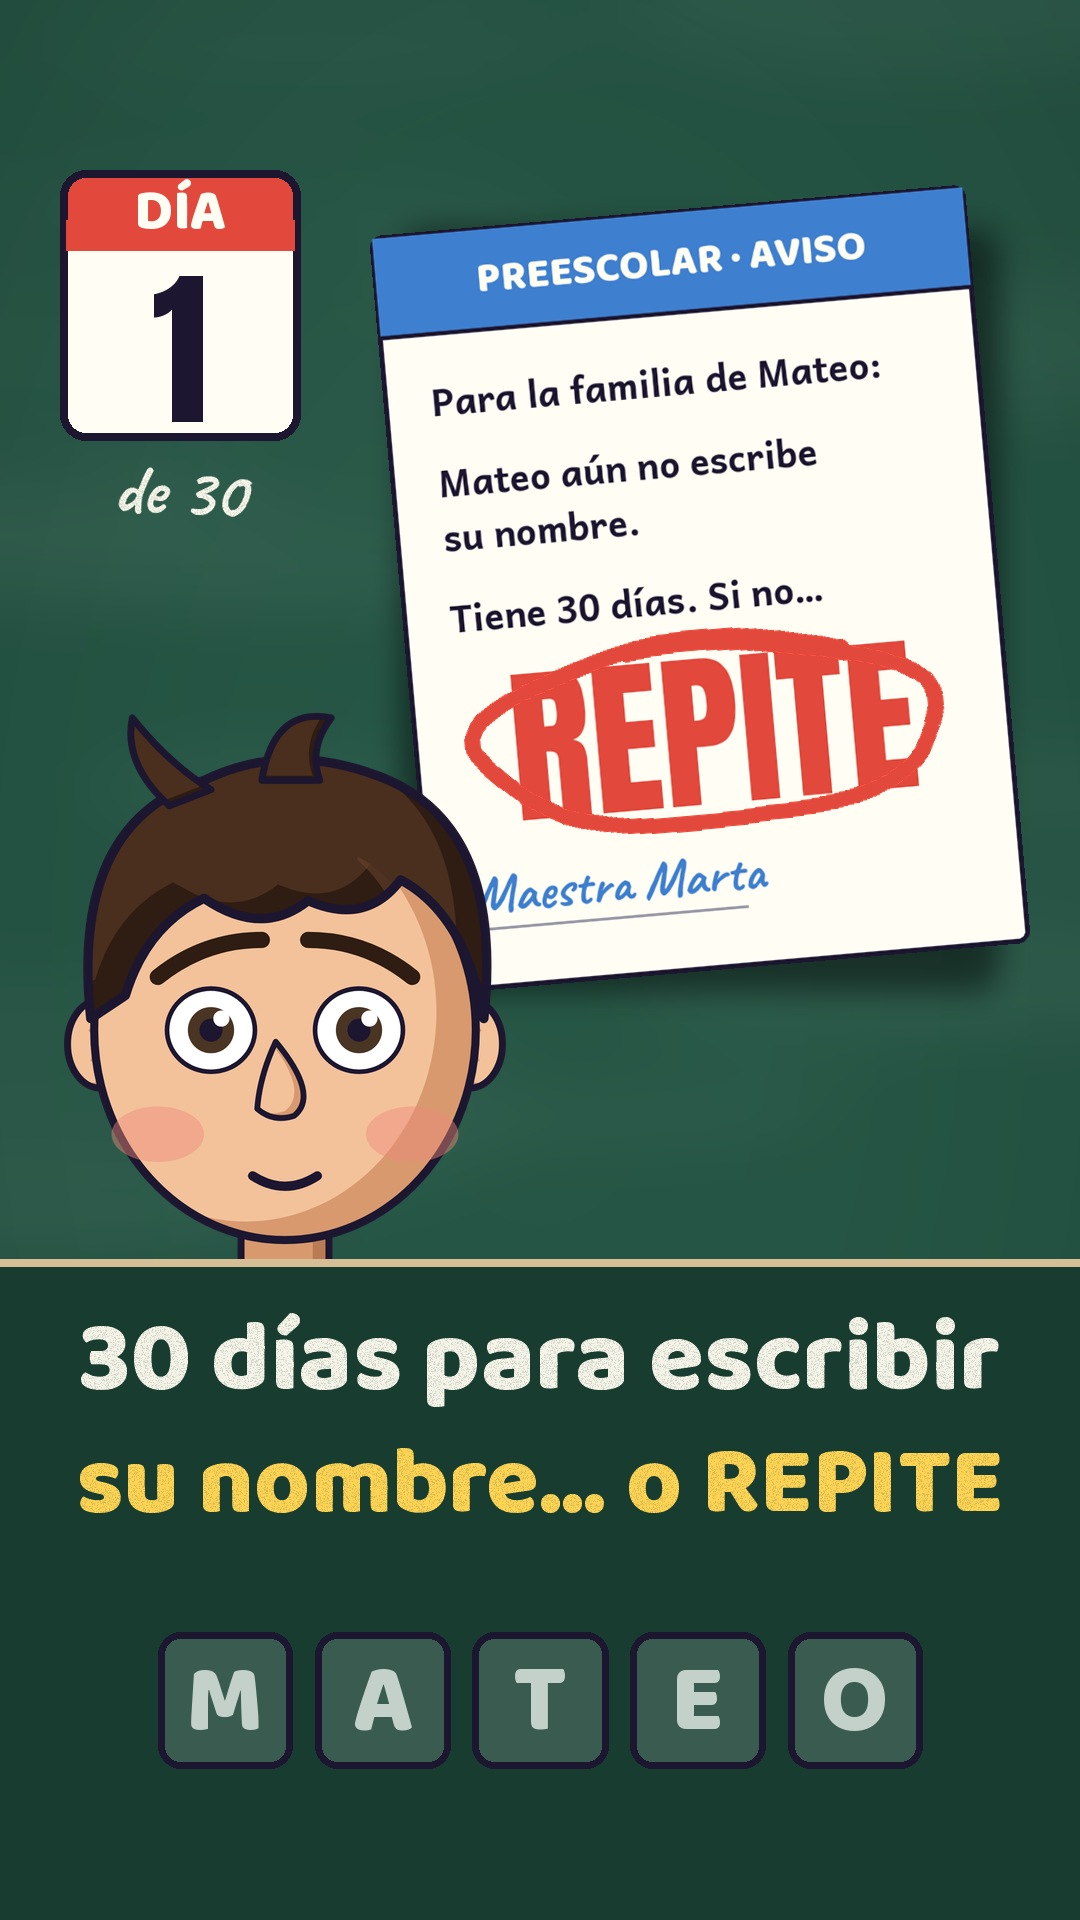
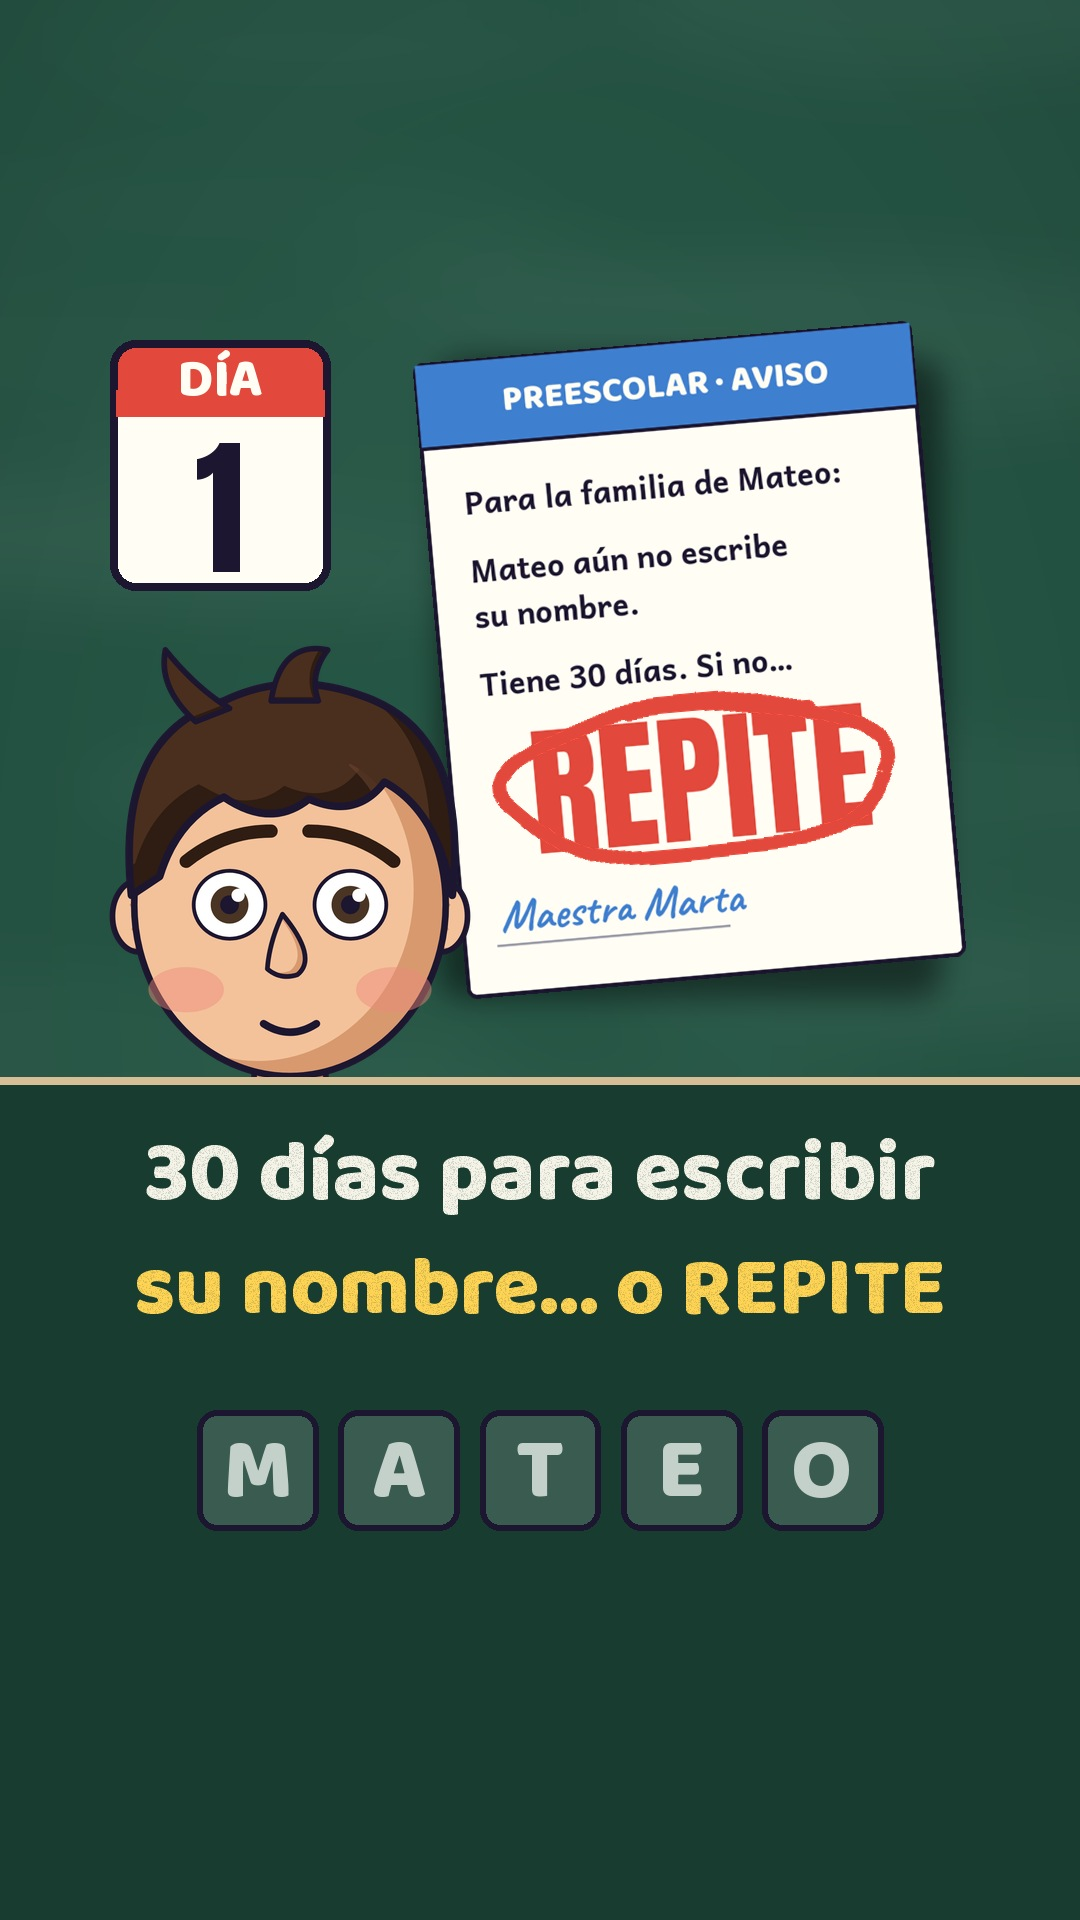
Mateo 30 días · Día 1: portada centrada en la zona 3:4 de TikTok
Claude-Session: https://claude.ai/code/session_01NdJoArMrGbMDWGBL12rqNM

diff --git a/mateo30/portada_d1.py b/mateo30/portada_d1.py
@@ -1,28 +1,23 @@
 """Portada del Día 1 (diseño nuevo de la temporada): pizarra verde, hoja de calendario DÍA N, cara de Mateo con emoción,
-UN objeto enorme con el error en círculo rojo, título de 2 líneas en tiza (palabra clave en amarillo) e imanes M-A-T-E-O."""
+UN objeto enorme con el error en círculo rojo, título de 2 líneas en tiza (palabra clave en amarillo) e imanes M-A-T-E-O.
+Todo dentro de la zona central 3:4 (x 90-990, y 300-1620): es lo que TikTok deja ver en la cuadrícula del perfil."""
 import os
-import render_d1 as V
 from render_d1 import *
 def main():
     c = pizarra(); d = ImageDraw.Draw(c)
-    # hoja de calendario DÍA 1
-    d.rounded_rectangle((60, 170, 300, 440), 26, fill=CREMA, outline=OL, width=8)
-    d.rounded_rectangle((60, 170, 300, 250), 26, fill=ROJO, outline=OL, width=8); d.rectangle((66, 220, 294, 250), fill=ROJO)
-    d.text((180, 212), "DÍA", font=font(F_BAL, 58), fill=CREMA, anchor="mm"); d.text((180, 350), "1", font=font(F_ANTON, 170), fill=OL, anchor="mm")
-    tiza(c, "de 30", 180, 490, 70, TIZA, -3)
-    # objeto enorme: la nota con REPITE en círculo rojo
-    nb = nota_img(); z = .68; cx, cy, rot = 700, 590, 5
-    sombra(c, (cx - 440 * z, cy - 560 * z, cx + 440 * z, cy + 560 * z), 24, 120, 20); paste_rot(c, nb, cx, cy, z, rot)
+    d.rounded_rectangle((110, 340, 330, 590), 26, fill=CREMA, outline=OL, width=8)
+    d.rounded_rectangle((110, 340, 330, 416), 26, fill=ROJO, outline=OL, width=8); d.rectangle((116, 390, 324, 416), fill=ROJO)
+    d.text((220, 380), "DÍA", font=font(F_BAL, 54), fill=CREMA, anchor="mm"); d.text((220, 508), "1", font=font(F_ANTON, 150), fill=OL, anchor="mm")
+    nb = nota_img(); z = .57; cx, cy, rot = 690, 660, 5
+    sombra(c, (cx - 440 * z, cy - 560 * z, cx + 440 * z, cy + 560 * z), 24, 120, 18); paste_rot(c, nb, cx, cy, z, rot)
     lay = Image.new("RGBA", (W, H), (0, 0, 0, 0)); x0, y0, x1, y1 = NOTA_REPITE
-    lapiz_rojo(lay, (cx + x0 * z, cy + y0 * z, cx + x1 * z, cy + y1 * z), 1, 16)
+    lapiz_rojo(lay, (cx + x0 * z, cy + y0 * z, cx + x1 * z, cy + y1 * z), 1, 14)
     c.alpha_composite(lay.rotate(rot, center=(cx, cy), resample=Image.BICUBIC))
-    # Mateo, cara y pecho, con susto
-    mateo(c, "susto", 285, 1030, .98, 0, blink=False)
-    # título en tiza
+    mateo(c, "susto", 290, 905, .8, 0, blink=False)
     lay = Image.new("RGBA", (W, H), (0, 0, 0, 0)); dl = ImageDraw.Draw(lay)
-    dl.rectangle((0, 1262, W, H), fill=PIZ2 + (255,)); dl.line((0, 1262, W, 1262), fill=(214, 190, 150, 255), width=8); c.alpha_composite(lay)
-    tiza(c, "30 días para escribir", 540, 1360, 100, TIZA, 0, f=F_BAL)
-    tiza(c, "su nombre… o REPITE", 540, 1484, 96, AMA, 0, f=F_BAL)
-    imanes(ImageDraw.Draw(c), 540 - 2 * 126 * 1.25, 1700, 1.25, 0)
+    dl.rectangle((0, 1080, W, H), fill=PIZ2 + (255,)); dl.line((0, 1080, W, 1080), fill=(214, 190, 150, 255), width=8); c.alpha_composite(lay)
+    tiza(c, "30 días para escribir", 540, 1175, 86, TIZA, 0, f=F_BAL)
+    tiza(c, "su nombre… o REPITE", 540, 1290, 84, AMA, 0, f=F_BAL)
+    imanes(ImageDraw.Draw(c), 540 - 2 * 126 * 1.12, 1470, 1.12, 0)
     c.convert("RGB").save(os.path.join(HERE, "portada_mateo_dia1_9x16.jpg"), quality=93)
 main()
